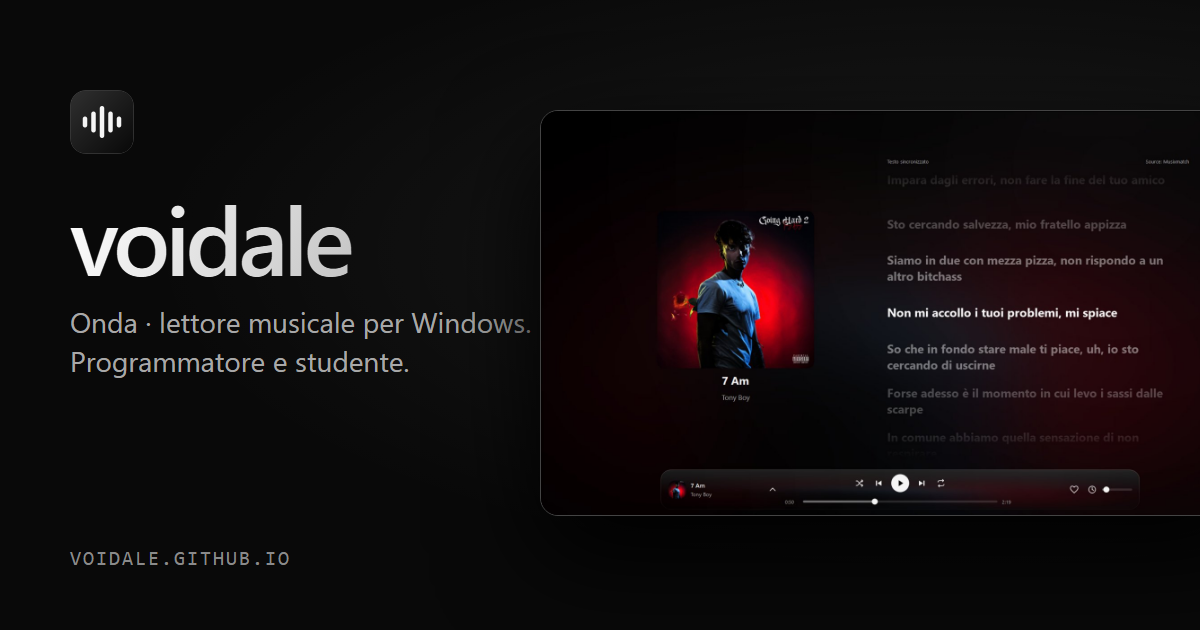
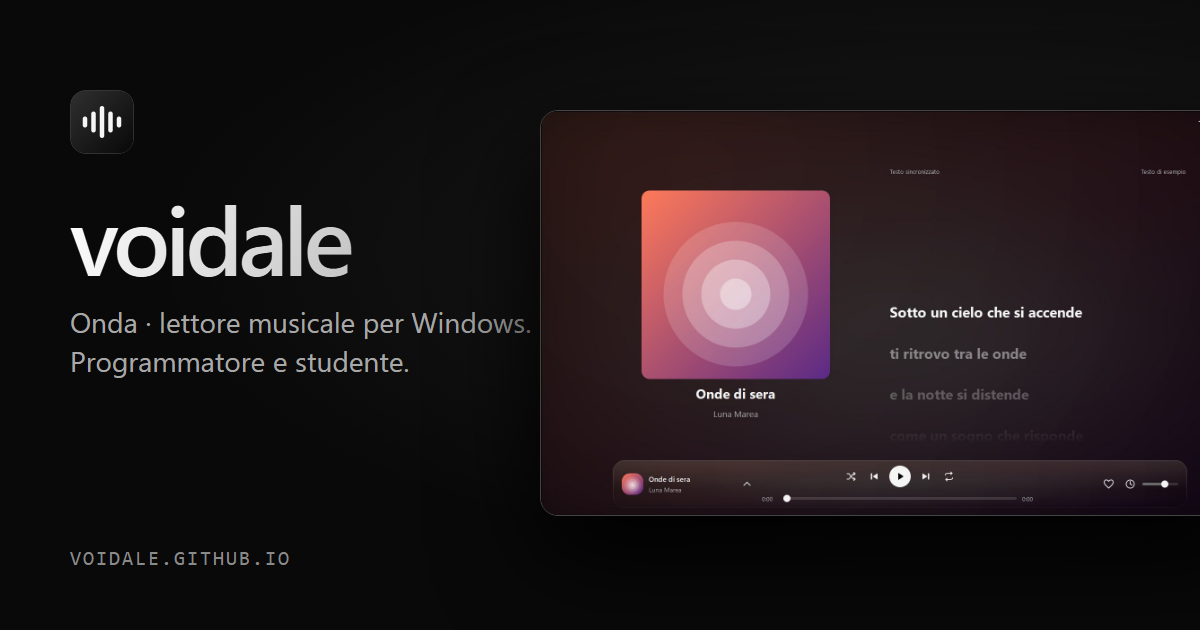
Screenshot di esempio senza materiale di terzi

Changed region(s): [[0.4317, 0.1508, 0.9867, 0.8143], [0.9558, 0.2413, 0.9867, 0.3016]]

diff --git a/index.html b/index.html
@@ -21,7 +21,7 @@
   <meta http-equiv="Content-Security-Policy" content="default-src 'none'; img-src 'self' data:; font-src 'self'; style-src 'self' 'unsafe-inline'; script-src 'self'; base-uri 'self'; form-action 'none'">
   <meta name="author" content="voidale">
   <link rel="stylesheet" href="fonts.css?v=20261101-1">
-  <link rel="stylesheet" href="style.css?v=20261101-site3">
+  <link rel="stylesheet" href="style.css?v=20261101-site4">
   <script src="script.js?v=20261027-motion3" defer></script>
 </head>
 <body>
@@ -87,8 +87,8 @@
         </div>
         <figure class="project-shots">
           <img class="shot-main" src="assets/onda-ascolto.jpg" alt="Onda: vista di ascolto con copertina e testo sincronizzato a tempo" width="1600" height="900" loading="lazy" decoding="async">
-          <img class="shot-side" src="assets/onda-home.jpg" alt="Onda: Home con barra laterale in vetro e suggerimenti" width="1600" height="900" loading="lazy" decoding="async">
-          <figcaption>Schermate di Onda: vista di ascolto e Home.</figcaption>
+          <img class="shot-side" src="assets/onda-home.jpg" alt="Onda: pagina di una playlist con barra laterale in vetro" width="1600" height="900" loading="lazy" decoding="async">
+          <figcaption>Schermate di Onda con brani e copertine di esempio: vista di ascolto e playlist.</figcaption>
         </figure>
       </article>
       <div class="project-grid">
